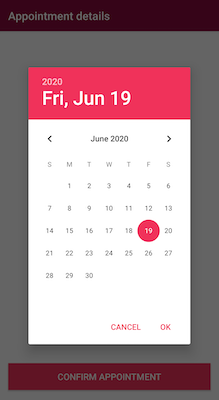
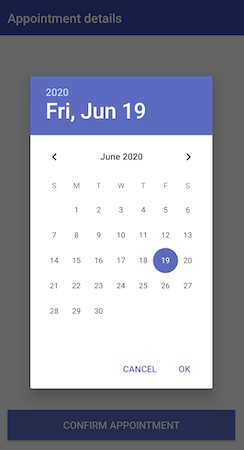
Updated screenshots in README.md

diff --git a/README.md b/README.md
@@ -13,7 +13,9 @@
 An easy to use Date and Time picker that leverages the OS's Material
 `DatePickerDialog` & `TimePickerDialog`.
 
-![](static/datepicker_screenshot.png)  |  ![](static/timepicker_screenshot.png)
+![](static/datepicker_screenshot.png) .
+![](static/timepicker_clock_screenshot.png) .
+![](static/timepicker_input_screenshot.png)
 
 ## Requirements
 
